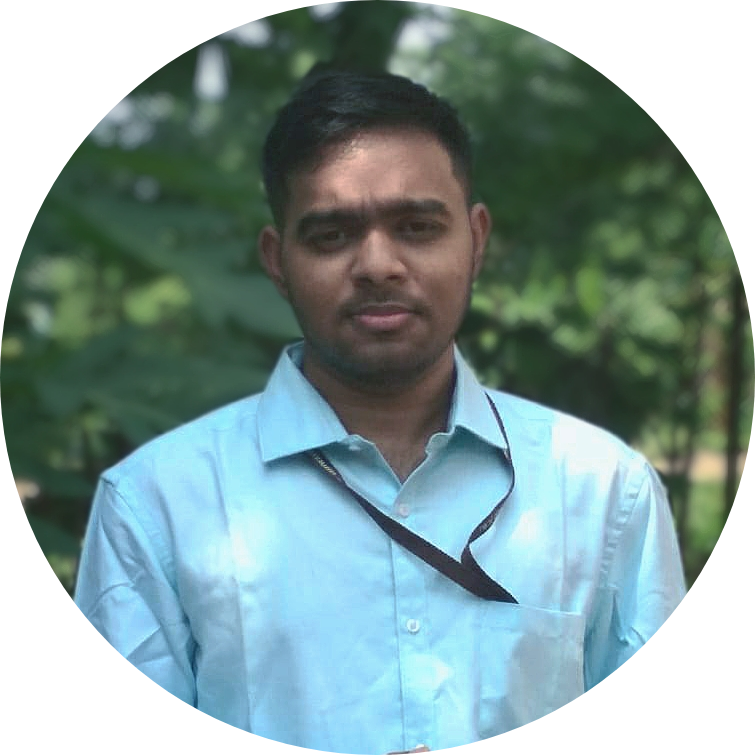
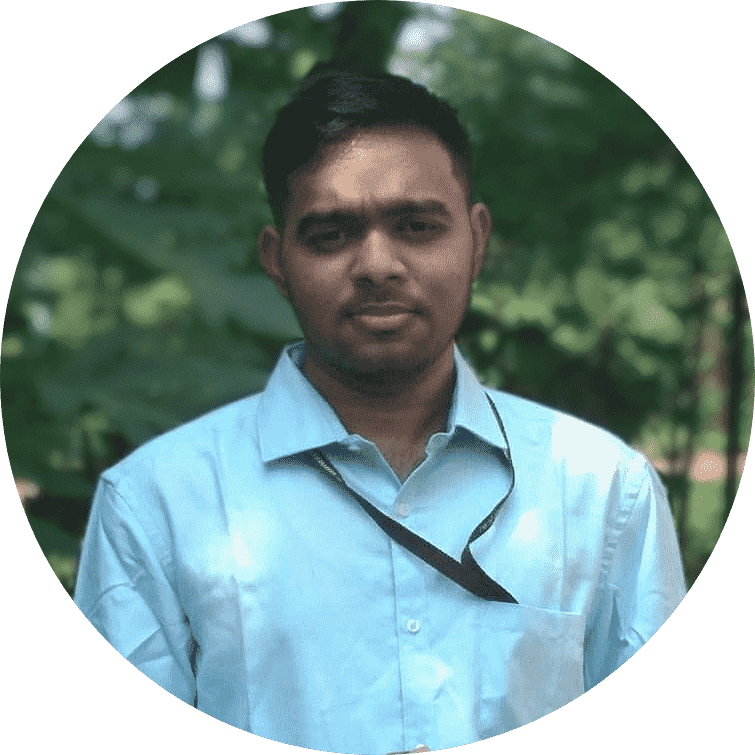
Reduced the image sizes and updated index

diff --git a/index.html b/index.html
@@ -317,7 +317,7 @@
                                 <i class="fa fa-plus fa-3x"></i>
                             </div>
                         </div>
-                        <img src="img/portfolio/2.jpeg" class="img-responsive img-centered" alt="">
+                        <img src="img/portfolio/2.png" class="img-responsive img-centered" alt="">
                     </a>
                     <div class="portfolio-caption">
                         <h4>Memes Page</h4>
